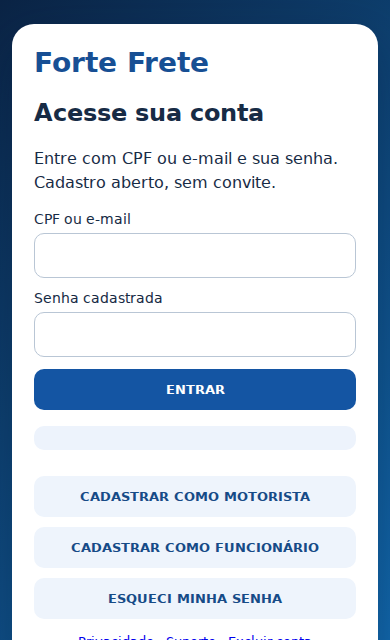
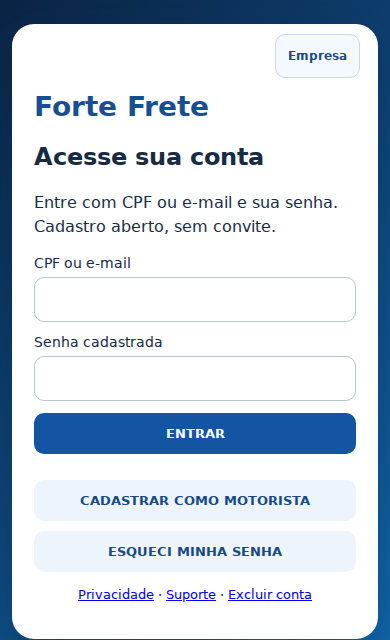
Move cadastro de funcionário para o atalho Empresa no topo

diff --git a/access-standard.js b/access-standard.js
@@ -24,7 +24,7 @@ const style=document.createElement("style");style.textContent=`
 .forte-access{position:fixed;inset:0;z-index:5000;overflow-y:auto;overflow-x:hidden;-webkit-overflow-scrolling:touch;overscroll-behavior-y:contain;scroll-padding-block:24px;max-height:100dvh;background:linear-gradient(135deg,#0b2445,#1268ac);padding:24px;box-sizing:border-box;font:16px Arial;color:#172b45}.forte-access [hidden],.forte-access-admin [hidden]{display:none!important}.forte-access section{max-width:460px;margin:24px auto;background:#fff;border-radius:22px;padding:28px;box-shadow:0 15px 50px #001b3b55}.forte-access h1{margin:0 0 12px;color:#174f94;font-size:28px}.forte-access p,.forte-access small{line-height:1.5}.forte-access form{display:grid;gap:12px}.forte-access label{display:grid;gap:6px;font-size:14px}.forte-access input,.forte-access select{box-sizing:border-box;width:100%;padding:12px;font:16px Arial;border:1px solid #b9c6d5;border-radius:10px;background:white;color:#172b45;text-transform:none}.forte-access button,.forte-access-admin button{padding:13px;border:0;border-radius:10px;background:#1455a3;color:white;font-weight:bold;cursor:pointer}.forte-access button[disabled]{opacity:.6}.forte-access .fa-link{background:#eef4fc;color:#164b87;width:100%;margin-top:10px}.forte-access .fa-notice{background:#edf3fc;border-radius:10px;padding:12px;white-space:pre-wrap}.forte-access-admin{font:14px Arial;color:#172b45}.forte-access-admin .fa-admin-button{position:static;max-width:100%;white-space:normal;background:#123963;box-shadow:none}.forte-access-admin .fa-admin-panel{position:fixed;inset:20px;z-index:5500;overflow:auto;background:white;border:2px solid #123963;border-radius:18px;padding:20px;box-shadow:0 20px 100px #0008}.forte-access-admin article{border:1px solid #ccd7e4;border-radius:12px;padding:15px;margin:14px 0}.forte-access-admin article p{line-height:1.6}.forte-access-admin input,.forte-access-admin select{padding:10px;width:100%;box-sizing:border-box;font:16px Arial;border:1px solid #b9c6d5;border-radius:8px;margin:8px 0}.forte-access-admin button{margin:4px}.forte-access-admin .fa-review-actions{position:sticky;bottom:0;z-index:1;display:flex;flex-wrap:wrap;gap:8px;background:#fff;padding:10px 0;border-top:1px solid #dce4ee}.forte-access-admin .fa-review-actions button{flex:1 1 180px;min-height:48px;margin:0}.forte-access-admin button[disabled]{opacity:.6;cursor:wait}.forte-access-admin .fa-reject{background:#a42626}.forte-access-admin .fa-admin-status{white-space:pre-wrap}.forte-access-admin h2{color:#174f94}@media(max-width:500px){.forte-access{padding:12px}.forte-access section{padding:22px;margin:12px auto}.forte-access-admin .fa-admin-panel{inset:8px;padding:14px}}
 [data-forte-top-actions]{display:flex;flex-wrap:wrap;align-items:center;gap:8px;min-width:0;max-width:100%}[data-forte-top-actions]>div{min-width:0;max-width:100%}.forte-access-admin .fa-admin-button{font-size:12px;line-height:1.3;padding:10px 12px;margin:0;min-height:40px}.forte-access-admin:empty{display:none}header:has([data-forte-top-actions]),.topbar:has([data-forte-top-actions]){height:auto;flex-wrap:wrap} .headerActions:has([data-forte-top-actions]){min-width:0!important;flex-wrap:wrap!important;white-space:normal!important}
 
-.forte-access .fa-access-paths{display:grid;grid-template-columns:1fr 1fr;gap:10px;margin:18px 0}.forte-access .fa-access-paths button{background:#edf3fc;color:#164b87;min-height:54px;border:2px solid transparent}.forte-access .fa-access-paths [aria-pressed=true]{background:#1455a3;color:white;border-color:#0b2445}.forte-access .fa-driver-section{border:1px solid #dbe3ee;border-radius:14px;padding:16px;min-width:0;margin:8px 0;display:grid;gap:12px}.forte-access .fa-driver-section legend{font-weight:bold;padding:0 6px}.forte-access .fa-onboarding-actions{position:static;display:grid;gap:10px;background:white;padding:12px 0 calc(12px + env(safe-area-inset-bottom));border-top:1px solid #dbe3ee;z-index:1}.forte-access .fa-onboarding-nav{display:flex;flex-wrap:wrap;gap:8px;margin:15px 0}.forte-access .fa-onboarding-nav a{padding:12px;background:#edf3fc;color:#164b87;border-radius:8px;text-decoration:none}.forte-access input,.forte-access select{scroll-margin-block:24px}.forte-access .fa-path-description{margin:0}.forte-access .fa-driver-section input[type=checkbox]{width:auto}
+.forte-access .fa-notice:empty{display:none}.forte-access .fa-enterprise{display:flex;justify-content:flex-end;margin:-12px -4px 12px}.forte-access .fa-enterprise button{font-size:12px;min-height:44px;padding:8px 12px;background:#f4f8ff;border:1px solid #c8d7ee;color:#1d4b86}.forte-access button:focus-visible,.forte-access a:focus-visible{outline:3px solid #1687ee;outline-offset:3px}.forte-access .fa-access-paths{display:grid;grid-template-columns:1fr 1fr;gap:10px;margin:18px 0}.forte-access .fa-access-paths button{background:#edf3fc;color:#164b87;min-height:54px;border:2px solid transparent}.forte-access .fa-access-paths [aria-pressed=true]{background:#1455a3;color:white;border-color:#0b2445}.forte-access .fa-driver-section{border:1px solid #dbe3ee;border-radius:14px;padding:16px;min-width:0;margin:8px 0;display:grid;gap:12px}.forte-access .fa-driver-section legend{font-weight:bold;padding:0 6px}.forte-access .fa-onboarding-actions{position:static;display:grid;gap:10px;background:white;padding:12px 0 calc(12px + env(safe-area-inset-bottom));border-top:1px solid #dbe3ee;z-index:1}.forte-access .fa-onboarding-nav{display:flex;flex-wrap:wrap;gap:8px;margin:15px 0}.forte-access .fa-onboarding-nav a{padding:12px;background:#edf3fc;color:#164b87;border-radius:8px;text-decoration:none}.forte-access input,.forte-access select{scroll-margin-block:24px}.forte-access .fa-path-description{margin:0}.forte-access .fa-driver-section input[type=checkbox]{width:auto}
 `;document.head.append(style);
 const mountAdmin=()=>{const host=document.querySelector('[data-forte-top-actions]');if(host&&adminBox.parentElement!==host)host.appendChild(adminBox)};
 const toolbarObserver=new MutationObserver(mountAdmin);toolbarObserver.observe(document.body,{childList:true,subtree:true});mountAdmin();
@@ -45,7 +45,7 @@ mode==="password"?input("password","Nova senha numérica — mínimo 6 dígitos"
 mode==="request"?input("data_nascimento","Data de nascimento","date",`max="${new Date().toISOString().slice(0,10)}"`):"";
 const titles={register:app==="frete"?(accessKind==="MOTORISTA"?"Etapa 1 — cadastro do motorista":"Cadastro do funcionário"):"Primeiro cadastro",login:app==="frete"?"Acesse sua conta":"Entrar com CPF",recover:"Recuperar senha",password:"Criar nova senha",request:"Solicitar acesso",pending:lastStatus?.status==="RECUSADO"?"Cadastro recusado":"Aguardando análise"};
 const desc=mode==="register"?(app==="frete"?(accessKind==="MOTORISTA"?"Não precisa de convite. Primeiro salve seus dados de acesso. Depois role a tela para preencher motorista, veículos e documentos. O acesso às cargas depende de aprovação.":"Não precisa de convite. Preencha somente seus dados pessoais e envie para análise. A administração definirá seu perfil e suas permissões."):"Preencha os dados e envie para análise. O acesso será liberado após aprovação do admin ou master."):mode==="pending"?"O acesso à operação permanece bloqueado. Acompanhe aqui a decisão do admin ou master.":mode==="login"?(app==="frete"?"Entre com CPF ou e-mail e sua senha. Cadastro aberto, sem convite.":"Usuários antigos podem informar a senha atual para atualizar para o padrão numérico."):mode==="password"?"Crie uma senha com somente números e no mínimo 6 dígitos para continuar.":"";
-box.innerHTML=`<section><h1>${esc(names[app])}</h1><h2>${titles[mode]}</h2><p>${desc}</p>${app==="frete"&&mode==="register"?`<div class="fa-access-paths" role="group" aria-label="Escolha seu acesso"><button type="button" data-lane="MOTORISTA" aria-pressed="${accessKind==='MOTORISTA'}">SOU MOTORISTA</button><button type="button" data-lane="USUARIO" aria-pressed="${accessKind==='USUARIO'}">SOU FUNCIONÁRIO</button></div>`:""}${fields?`<form>${fields}<button type="submit">${({register:app==="frete"?(accessKind==="MOTORISTA"?"SALVAR E CONTINUAR PARA DOCUMENTOS":"ENVIAR CADASTRO PARA ANÁLISE"):"ENVIAR PARA ANÁLISE",login:"ENTRAR",recover:"ENVIAR LINK DE RECUPERAÇÃO",password:"SALVAR NOVA SENHA",request:"ENVIAR SOLICITAÇÃO"})[mode]}</button></form>`:""}<p class="fa-notice" role="status" aria-live="polite">${esc(notice)}</p>${pending?`${app==="frete"&&accessKind==="MOTORISTA"&&driverOnboarding?.canStart?'<button class="fa-link" data-nav="driver-documents">CONTINUAR CADASTRO DE MOTORISTA</button>':""}<button class="fa-link" data-nav="check">ATUALIZAR SITUAÇÃO</button>${lastStatus?.status==="SEM_SOLICITACAO"?'<button class="fa-link" data-nav="request">SOLICITAR ACESSO A ESTE APLICATIVO</button>':""}<button class="fa-link" data-nav="logout">SAIR</button>`:`${app==="frete"&&mode==="login"?'<button class="fa-link" data-nav="register-driver">CADASTRAR COMO MOTORISTA</button><button class="fa-link" data-nav="register-staff">CADASTRAR COMO FUNCIONÁRIO</button>':`<button class="fa-link" data-nav="${mode==="register"?"login":"register"}">${mode==="register"?"JÁ TENHO CADASTRO • ENTRAR":app==="frete"?"CADASTRAR SEM CONVITE":"PRIMEIRO CADASTRO"}</button>`}<button class="fa-link" data-nav="recover">ESQUECI MINHA SENHA</button>${mode==="password"?'<button class="fa-link" data-nav="logout">CANCELAR E SAIR</button>':""}`}${app==="frete"?'<p style="font-size:13px;text-align:center"><a href="/privacidade.html">Privacidade</a> · <a href="/suporte.html">Suporte</a> · <a href="/excluir-conta.html">Excluir conta</a></p>':""}</section>`;
+box.innerHTML=`<section>${app==="frete"&&mode==="login"?'<div class="fa-enterprise"><button type="button" data-nav="register-staff">Empresa</button></div>':""}<h1>${esc(names[app])}</h1><h2>${titles[mode]}</h2><p>${desc}</p>${app==="frete"&&mode==="register"?`<div class="fa-access-paths" role="group" aria-label="Escolha seu acesso"><button type="button" data-lane="MOTORISTA" aria-pressed="${accessKind==='MOTORISTA'}">SOU MOTORISTA</button><button type="button" data-lane="USUARIO" aria-pressed="${accessKind==='USUARIO'}">SOU FUNCIONÁRIO</button></div>`:""}${fields?`<form>${fields}<button type="submit">${({register:app==="frete"?(accessKind==="MOTORISTA"?"SALVAR E CONTINUAR PARA DOCUMENTOS":"ENVIAR CADASTRO PARA ANÁLISE"):"ENVIAR PARA ANÁLISE",login:"ENTRAR",recover:"ENVIAR LINK DE RECUPERAÇÃO",password:"SALVAR NOVA SENHA",request:"ENVIAR SOLICITAÇÃO"})[mode]}</button></form>`:""}<p class="fa-notice" role="status" aria-live="polite">${esc(notice)}</p>${pending?`${app==="frete"&&accessKind==="MOTORISTA"&&driverOnboarding?.canStart?'<button class="fa-link" data-nav="driver-documents">CONTINUAR CADASTRO DE MOTORISTA</button>':""}<button class="fa-link" data-nav="check">ATUALIZAR SITUAÇÃO</button>${lastStatus?.status==="SEM_SOLICITACAO"?'<button class="fa-link" data-nav="request">SOLICITAR ACESSO A ESTE APLICATIVO</button>':""}<button class="fa-link" data-nav="logout">SAIR</button>`:`${app==="frete"&&mode==="login"?'<button class="fa-link" data-nav="register-driver">CADASTRAR COMO MOTORISTA</button>':`<button class="fa-link" data-nav="${mode==="register"?"login":"register"}">${mode==="register"?"JÁ TENHO CADASTRO • ENTRAR":app==="frete"?"CADASTRAR SEM CONVITE":"PRIMEIRO CADASTRO"}</button>`}<button class="fa-link" data-nav="recover">ESQUECI MINHA SENHA</button>${mode==="password"?'<button class="fa-link" data-nav="logout">CANCELAR E SAIR</button>':""}`}${app==="frete"?'<p style="font-size:13px;text-align:center"><a href="/privacidade.html">Privacidade</a> · <a href="/suporte.html">Suporte</a> · <a href="/excluir-conta.html">Excluir conta</a></p>':""}</section>`;
 box.querySelectorAll('[data-lane]').forEach(el=>el.onclick=()=>{const old=box.querySelector('form');const values=old?Object.fromEntries(new FormData(old)):{};accessKind=el.dataset.lane;draw();const fresh=box.querySelector('form');for(const [k,v] of Object.entries(values)){if(k!=='registration_kind'&&fresh?.elements[k])fresh.elements[k].value=v;}});
 box.querySelectorAll("[data-nav]").forEach(el=>el.onclick=async()=>{if(el.dataset.nav==="logout"){recovery=false;history.replaceState(null,"",location.pathname);await client.auth.signOut();mode="login"}else if(el.dataset.nav==="driver-documents"){try{await onboardingCall(client,"START_DRIVER");await check()}catch(e){notice=e.message;draw()}return}else if(el.dataset.nav==="check"){await check();return}else if(el.dataset.nav.startsWith("register-")){accessKind=el.dataset.nav==="register-staff"?"USUARIO":"MOTORISTA";mode="register";}else mode=el.dataset.nav;notice="";draw()});
 const form=box.querySelector("form");if(!form)return;

diff --git a/docs/cadastro-unico-mobile/README.md b/docs/cadastro-unico-mobile/README.md
@@ -7,7 +7,9 @@ Implementação baseada no pacote `forte_frete_cadastro_mobile_work.zip`, inspec
 | Entrada | Preenchimento | Aprovação |
 | --- | --- | --- |
 | Cadastrar como Motorista | Uma tela com dados pessoais, endereço, CNH, veículo/componentes, fotos, proprietário e favorecido | Tipo motorista fixo; operação bloqueada até análise completa |
-| Cadastrar como Funcionário | Uma tela com dados pessoais, endereço e identificação | Usuário não escolhe função; Master/Admin define na aprovação |
+| Empresa (atalho no topo) | Uma tela com dados pessoais, endereço e identificação | Usuário não escolhe função; Master/Admin define na aprovação |
+
+Ajuste incremental do ZIP `forte_frete_ajuste_empresa_topo_work.zip`: atalho pequeno Empresa no topo do login abre diretamente o mesmo cadastro de funcionário, sem botão grande duplicado e sem aviso explicativo adicional. Nenhuma mudança de banco foi necessária para esse ajuste.
 
 Login aceita CPF ou e-mail; a recuperação já existente foi preservada. Não existe seleção de função pelo candidato. Mantido o padrão de senha numérica com seis ou mais dígitos do sistema existente. E-mail passa a ser obrigatório para novos cadastros completos. Endereço e documento do funcionário são persistidos no dossiê privado.
 
@@ -47,3 +49,7 @@ Os testes de navegador usam o código real com API simulada; os testes de banco 
 ## Rollback sem perda de dados
 
 Se o frontend apresentar regressão, retornar o frontend ao commit de produção anterior. Conservar a tabela, os endpoints novos e o bloqueio de aprovação: excluir a tabela ou remover a proteção descartaria rascunhos ou permitiria aprovação incompleta. Cadastros antigos aprovados continuam com seu fluxo existente; novos cadastros completos podem aguardar a correção da interface, sem liberar a operação. Não restaurar uma versão de access-standard que permita criar contas novas fora do dossiê obrigatório. Dados e anexos não devem ser apagados no rollback. O retorno integral do banco depende de revisar os cadastros criados após implantação, especialmente pagamentos por outra forma; preferir corrigir e republicar a interface com os dados preservados.
+
+## Pacote adicional de cinco sistemas recebido
+
+O ZIP `forte_mobile_5_sistemas_telas_instrucoes_work.zip` foi lido durante a implementação. A exceção de navegação Frete (Empresa no topo e Cadastrar como Motorista) está incluída nesta entrega. O pacote também pede alterações em Vendas, Financeiro, Fiscal e Vendas Externas, incluindo rascunhos, layout dos painéis e autorização do aprovador por módulo/estabelecimento em cada operação protegida. Esse escopo é distinto deste PR Frete e ainda não foi implementado nem certificado nos outros módulos. Aprovação em um sistema não deve conceder acesso aos demais; não inferir nem copiar permissões. As referências fornecidas nesse pacote podem conter dados pessoais e não foram adicionadas ao repositório.
